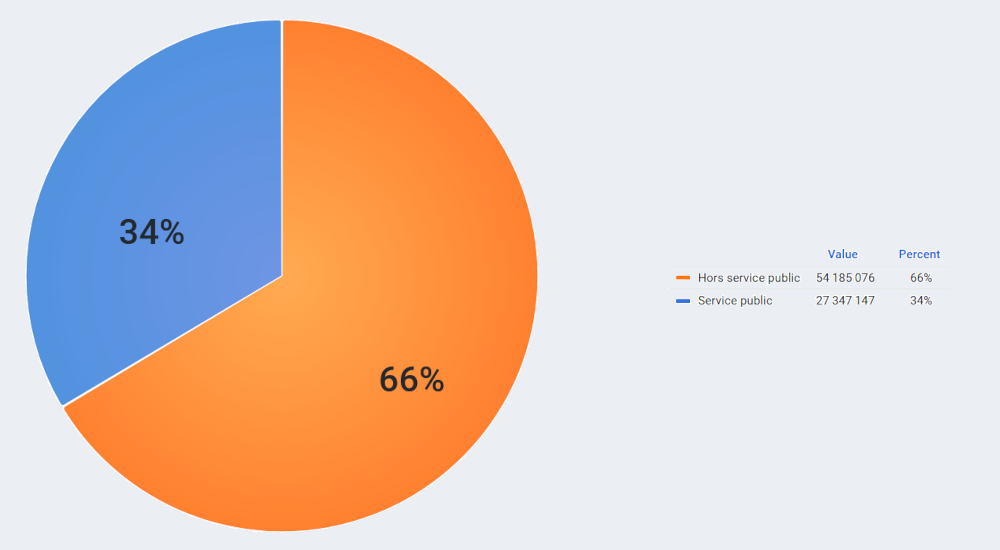
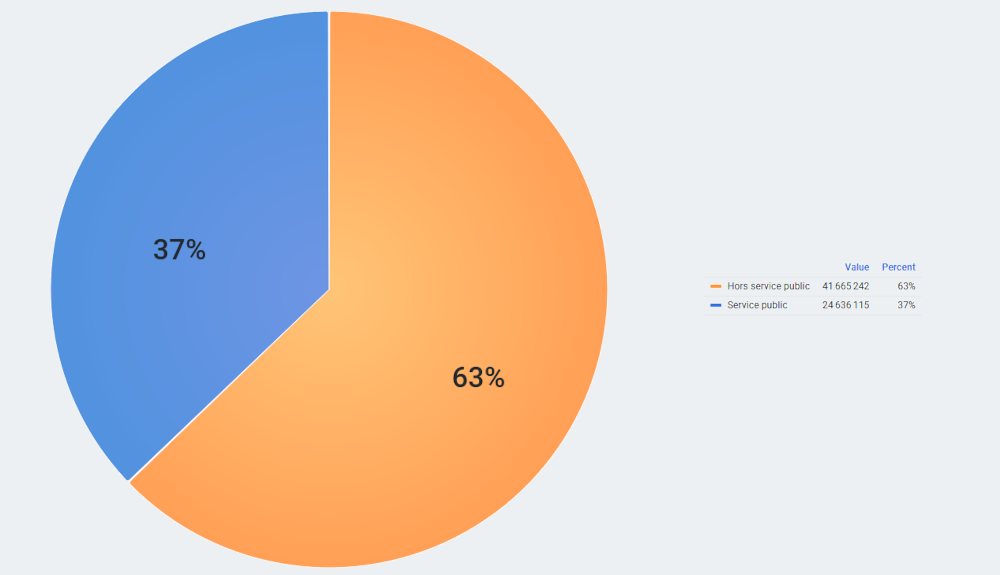
Update indicators to may 2023

diff --git a/pages/indicateurs.js b/pages/indicateurs.js
@@ -20,20 +20,20 @@ function Indicateurs() {
           Cette page d’indicateurs ne reflète qu’une partie des usages. Sont ici représentés les usages de l’API adresse et non les usages de téléchargement des fichiers adresse. Néanmoins, les exploitations de l’API sont une illustration relativement fidèle des usages de l’adresse et de la typologie des utilisateurs.<br />
           Les statistiques sont présentées sur une périodicité mensuelle et sont issues des données brutes d’exploitation.<br />
           Ces données seront régulièrement enrichies afin de donner une lecture la plus fidèle des usages de la BAN.<br />
-          Date de dernière mise à jour : Avril 2023
+          Date de dernière mise à jour : Juin 2023
         </SectionText>
       </Section>
 
-      <Section title='Nombre de requêtes' subtitle='en mars 2023' >
+      <Section title='Nombre de requêtes' subtitle='en mai 2023' >
         <Image src='/images/indicateurs/nb_requetes.png' height={200} width={1000} />
       </Section>
 
-      <Section title='Part public-privé' subtitle='en mars 2023' background='grey'>
-        <Image src='/images/indicateurs/part_public.png' height={550} width={1000} />
+      <Section title='Part public-privé' subtitle='en mai 2023' background='grey'>
+        <Image src='/images/indicateurs/part_public.png' height={575} width={1000} />
       </Section>
 
-      <Section title='Ils nous font confiance' subtitle='Les 5 plus gros utilisateurs publics en mars 2023'>
-        <Image src='/images/indicateurs/top5.png' height={520} width={1000} />
+      <Section title='Ils nous font confiance' subtitle='Les 5 plus gros utilisateurs publics en mai 2023'>
+        <Image src='/images/indicateurs/top5.png' height={530} width={1000} />
       </Section>
 
     </Page>
